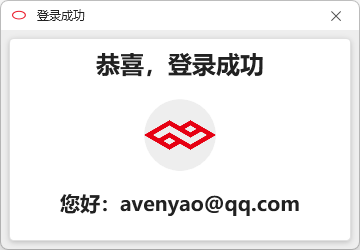
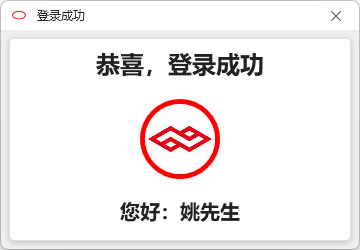
完善项目说明。

Changed region(s): [[0.3667, 0.392, 0.6111, 0.728], [0.3361, 0.784, 0.8556, 0.896], [0.1528, 0.756, 0.3056, 0.868]]

diff --git a/Scm.Oidc.Wpf/UserInfo.xaml b/Scm.Oidc.Wpf/UserInfo.xaml
@@ -16,8 +16,12 @@
             <Grid>
                 <TextBlock HorizontalAlignment="Center" Text="恭喜，登录成功" Style="{StaticResource TextBlockLargeBold}"/>
             </Grid>
-            <Border Width="80" Height="80" CornerRadius="40" BorderThickness="3" BorderBrush="Red" Background="#FAFAFA" Margin="0,20">
-                <Image x:Name="PbIcon" Margin="5"/>
+            <Border Width="80" Height="80" CornerRadius="40" BorderThickness="5" BorderBrush="Red" Background="#FAFAFA" Margin="0,20">
+                <Image x:Name="PbIcon" Width="64" Height="64">
+                    <Image.Clip>
+                        <EllipseGeometry RadiusX="32" RadiusY="32" Center="32,32"/>
+                    </Image.Clip>
+                </Image>
             </Border>
             <Grid>
                 <TextBlock x:Name="TbInfo" HorizontalAlignment="Center" Text="您好！" Style="{StaticResource TextBlockTitleBold}"/>

diff --git a/README.md b/README.md
@@ -31,5 +31,6 @@ OIDC的特点：
 请移步这里查看演示：[演示链接](http://demo.oidc.org.cn)
 
 客户端效果：  
-![用户登录界面](screenshots/login.png)  
+![验证登录界面](screenshots/vcode.png)  
+![授权登录界面](screenshots/oauth.png)  
 ![授权成功界面](screenshots/success.png)  
